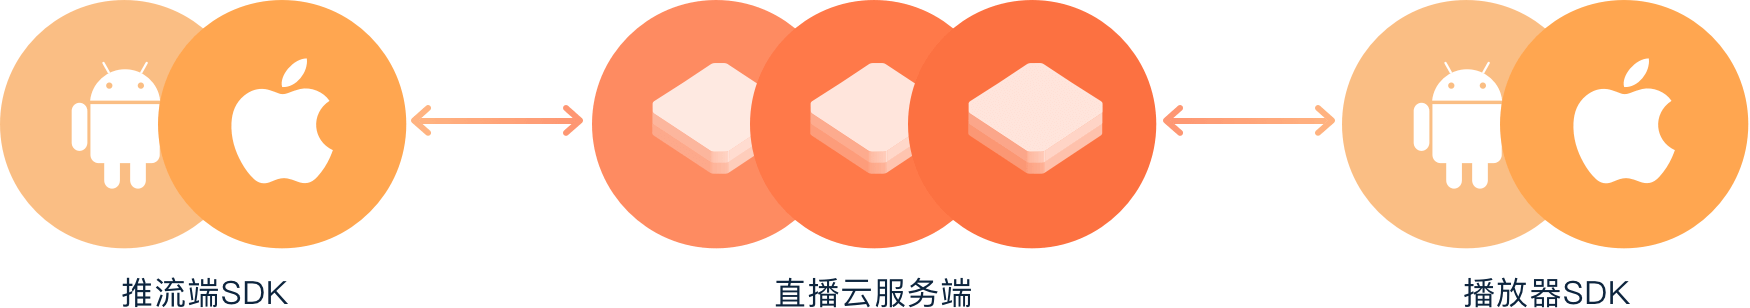
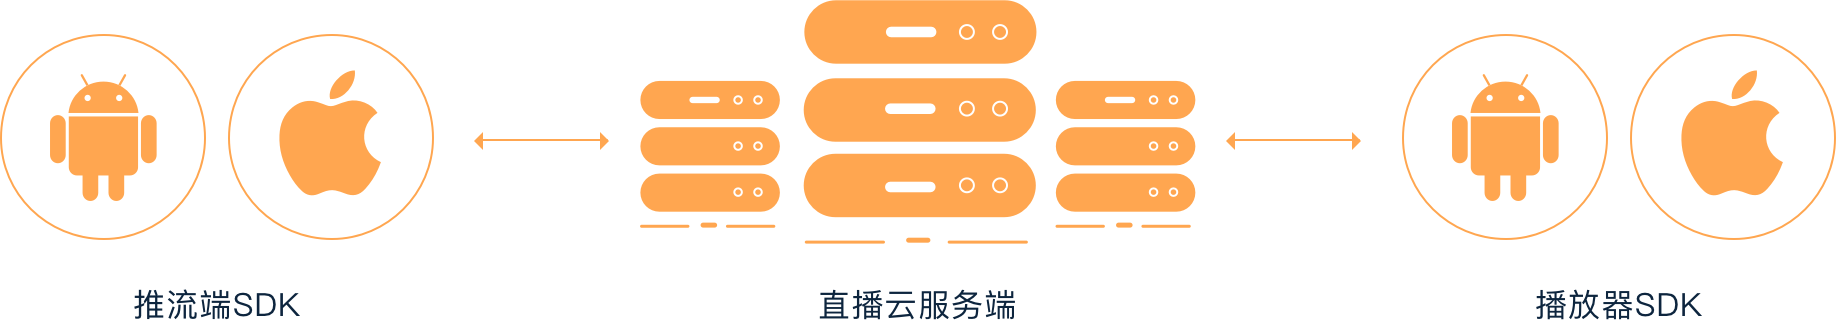
Update live page

diff --git a/src/pages/product/live.vue b/src/pages/product/live.vue
@@ -11,7 +11,9 @@
   .section-2-parts
     .inner
       background: none
+      overflow: hidden
       .left
+        padding-left: 40px
         .icons
           margin-top: 54px
           img
@@ -20,6 +22,7 @@
         height: 530px
         background: url(./assets/live-img-large.png) center no-repeat
         background-size: 664px
+        margin-right: -80px
   .section-scenes
     .scenes
       .item
@@ -99,7 +102,7 @@ layout(:colors="colorSet")
         .main-description(style="width: 612px; margin-bottom: 47px") 直播源站支持自主源站或又拍云源，为支持用户在不同终端播放，
           br
           | 支持 RTMP、HLS、HTTP-flv 播放输出，通过又拍云 CDN 网络分发在全国各地终端。
-        img.hero-img(src="./assets/live_architecture.png", width=1009, height=639)
+        img.hero-img(src="./assets/live_architecture.png", width=1017, height=641)
     up_gradient.section-2-parts(:colors="colorSet")
       .inner
         .container
